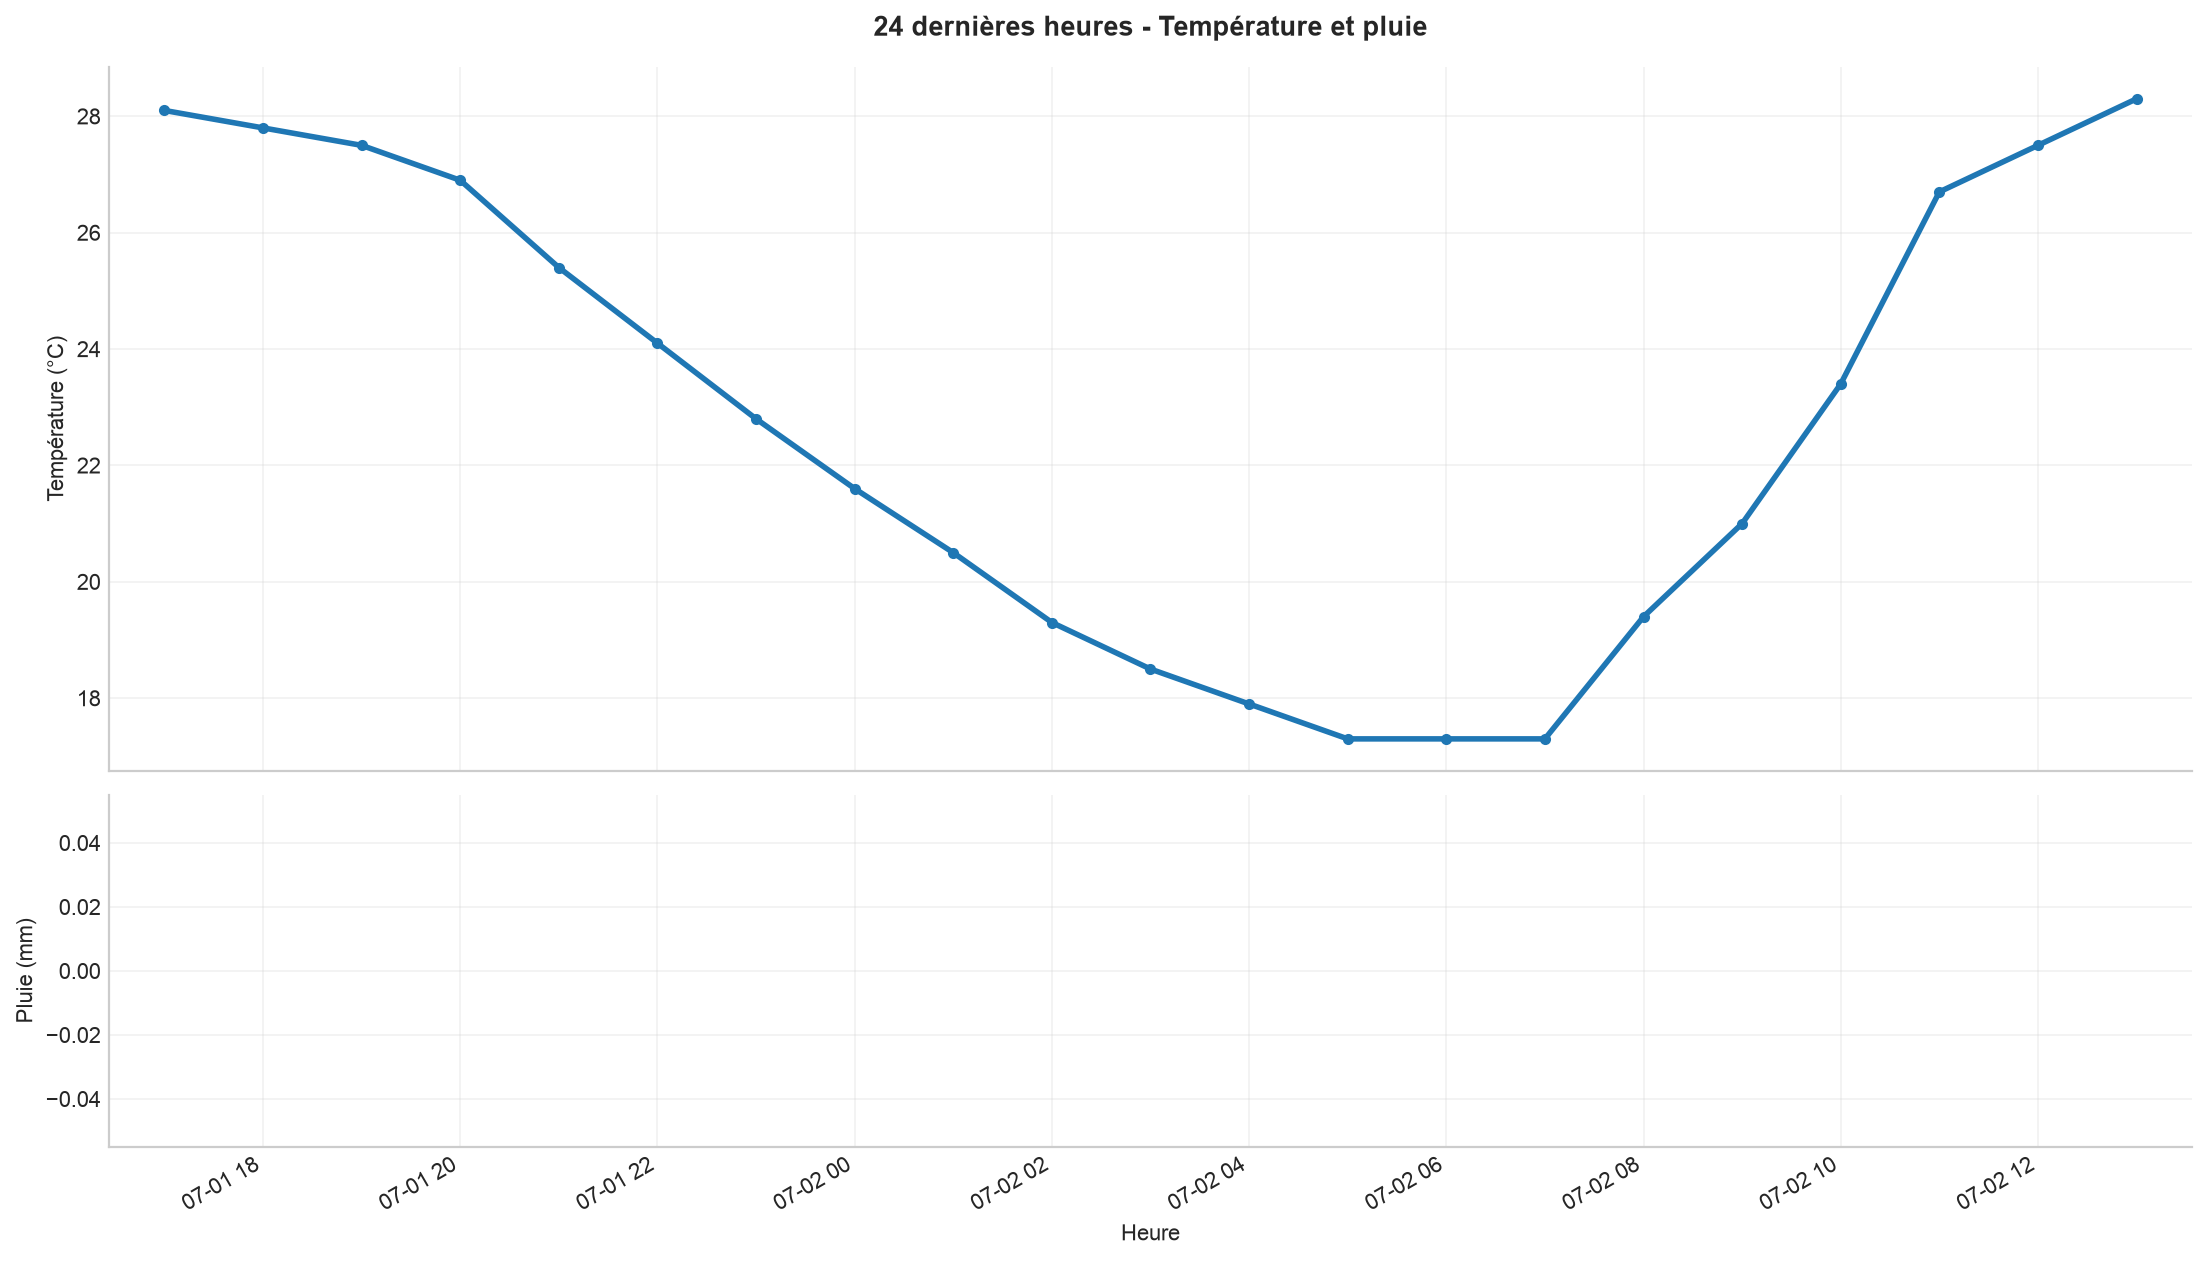
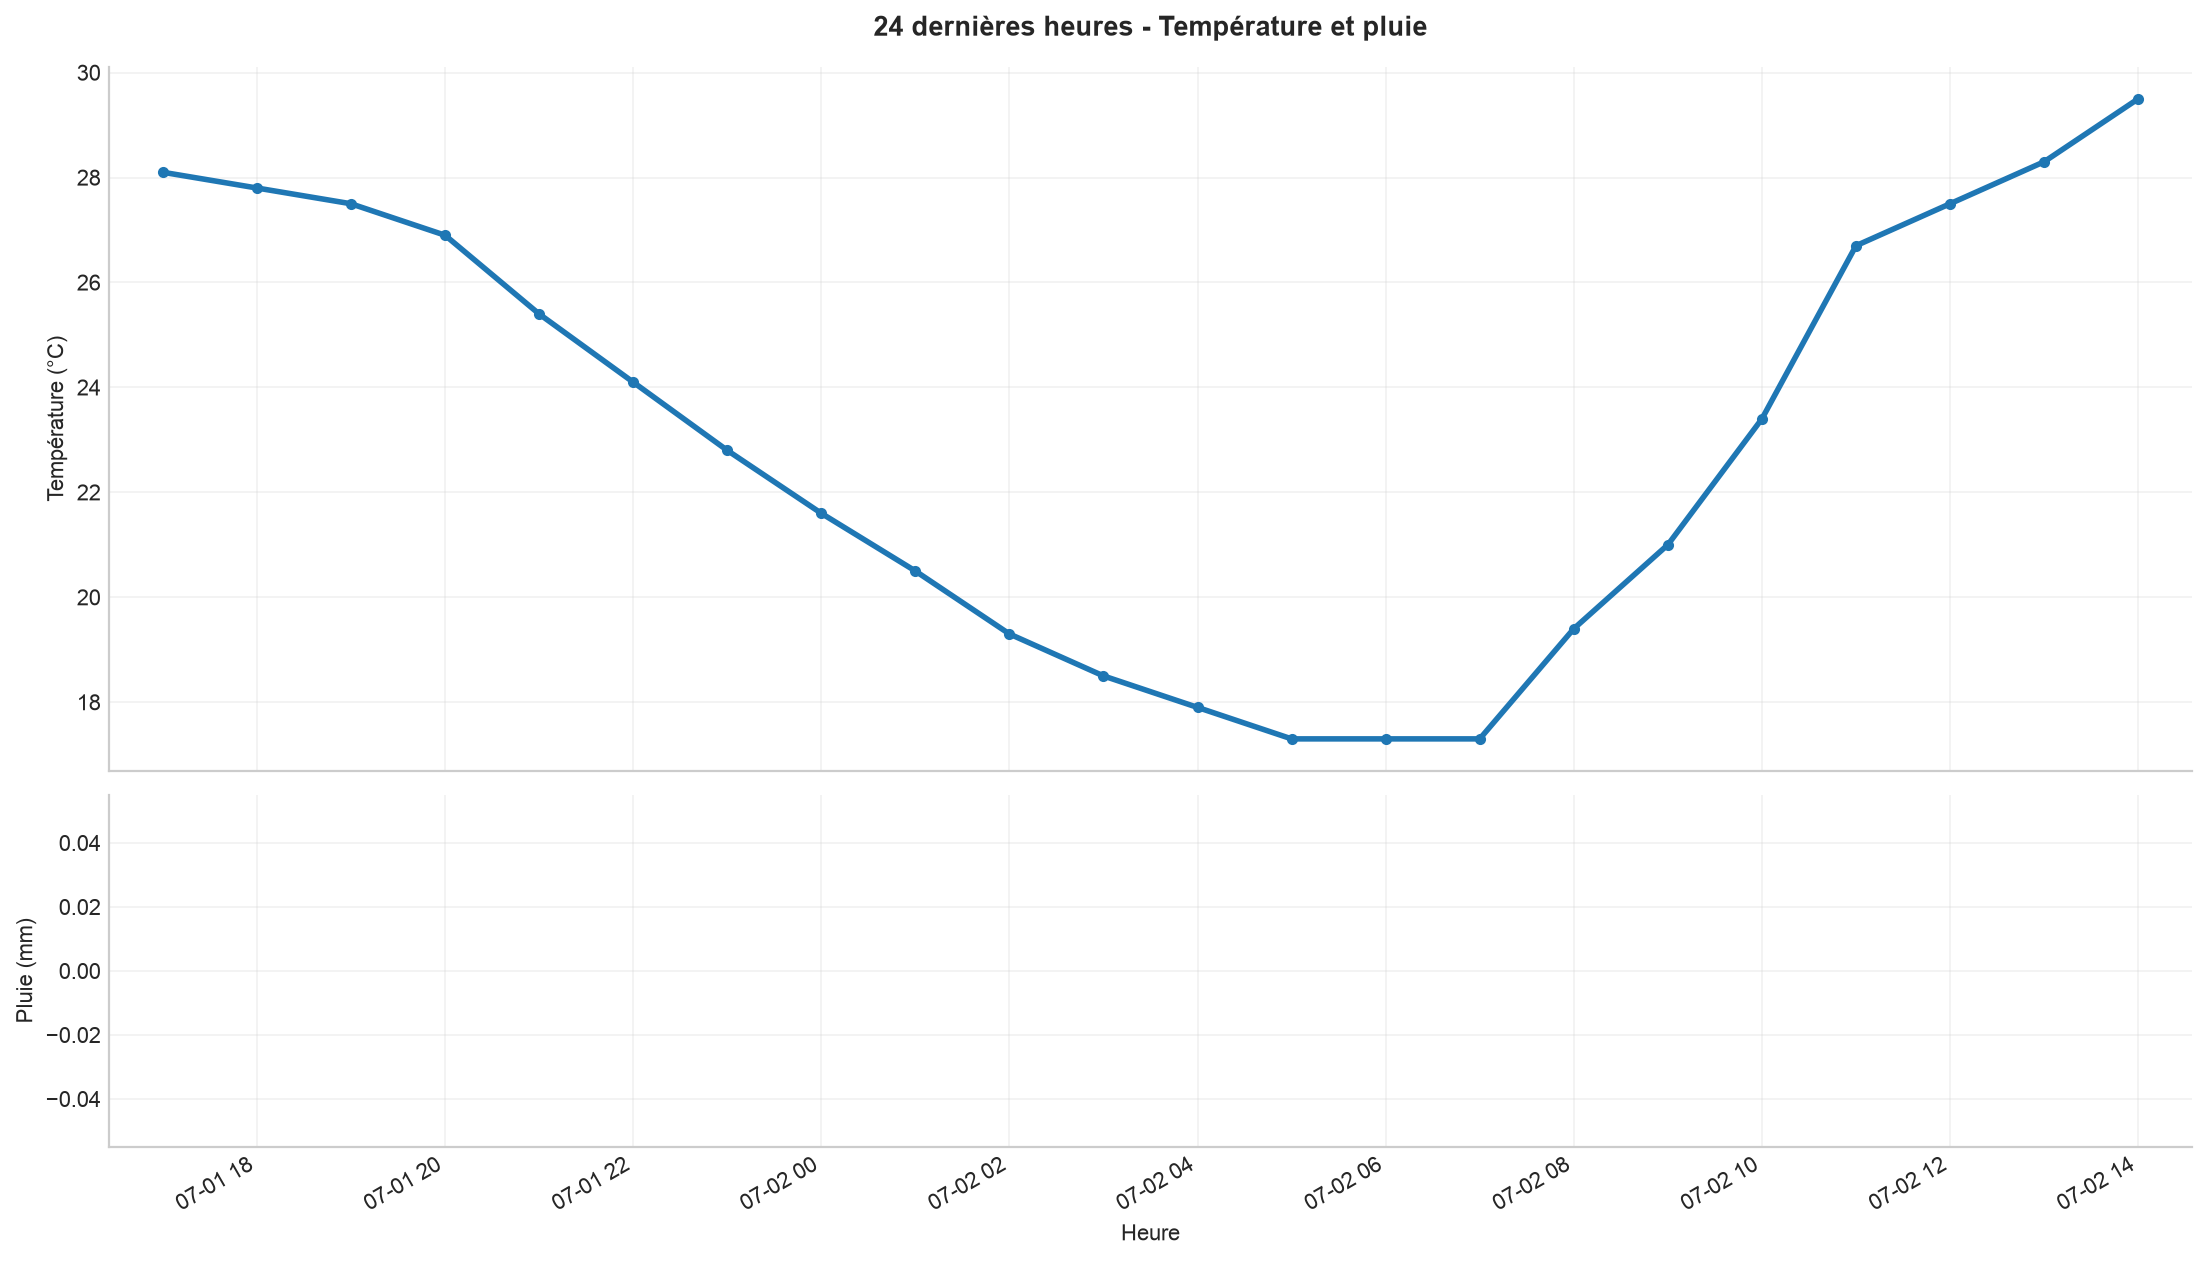
Mise à jour météo automatique

diff --git a/index.html b/index.html
@@ -269,7 +269,7 @@
       <!-- Partie droite : métriques priorité (température, pluie) -->
       <div class="header-metrics">
         <article class="metric-card">
-          <div class="metric-label">Température instantanée</div>
+          <div class="metric-label">Température</div>
           <div class="metric-main">
             <span id="temperature" class="metric-value">–</span>
             <span class="metric-unit">°C</span>